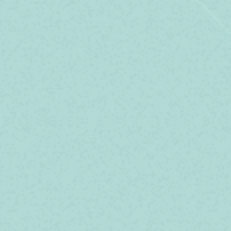
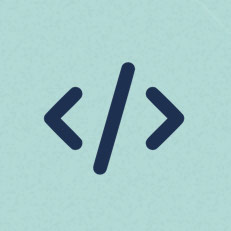
changes to home page

Changed region(s): [[0.3939, 0.2424, 0.6061, 0.7576], [0.6061, 0.3636, 0.8182, 0.6667], [0.1818, 0.3636, 0.3636, 0.6667]]

diff --git a/index.html b/index.html
@@ -36,7 +36,7 @@
 			  </li> -->
 
 			  <li class = "nav2">
-				<a href = "about.html">About</a>
+				<a href = "about.html">Who are We?</a>
 			  </li>
 			</ul>
 		  </nav>
@@ -57,19 +57,10 @@
 
 		<!-- One -->
 			<section id="one" class="wrapper style2 special">
-				<header class="major">
-					<!-- catch phrase -->
-					<h2>Sed ipsum magna lorem tempus amet<br />
-					vehicula et gravida elementum</h2>
-				</header>
 				<ul class="icons major">
-					<!-- TODO: Fix Icons -->
-					<!-- <li><span class="icon solid fa-camera-retro"><span class="label">Shoot</span></span></li> -->
 					<li><span class="icon solid fa-house-user"><span class="label">Computer</span></span></li>
 					<li><span class="icon solid fa-code"><span class="label">Code</span></span></li>
-					<!-- <li><span class="icon solid fa-cloud"><span class="label">Upload</span></span></li> -->
 					<li><span class="icon solid fa-desktop"><span class="label">Computer</span></span></li>
-
 				</ul>
 			</section>
 
@@ -87,7 +78,7 @@
 						<div class="image"><img src="images/pic02.jpg" alt="" /></div>
 						<div class="content">
 							<h3>Sign Up</h3>
-							<p>This hackathon is avalibale for any high school student that attends Meridian High School, Yorktown High School, etc.  Please form teams of X.  Fill out this form:</p>
+							<p>This hackathon is avalibale for any high school student in the DMV area.  For more specific rules and regulations, visit the "Sign Up" page</p>
 							<li class = "nav3">
 								<a href = "join.html"> Click for more info about signing up</a>
 							</li>
@@ -105,26 +96,12 @@
 					</section>
 					<section class="special">
 						<ul class="icons labeled">
-							<li><span class="icon solid fa-camera-retro"><span class="label">Ipsum lorem accumsan</span></span></li>
-							<li><span class="icon solid fa-sync"><span class="label">Sed vehicula elementum</span></span></li>
-							<li><span class="icon solid fa-cloud"><span class="label">Elit fusce consequat</span></span></li>
-							<li><span class="icon solid fa-code"><span class="label">Lorem nullam tempus</span></span></li>
-							<li><span class="icon solid fa-desktop"><span class="label">Adipiscing amet sapien</span></span></li>
+							<li><span class="icon solid fa-house-user"><span class="label"></span></span></li>
+					<li><span class="icon solid fa-code"><span class="label"></span></span></li>
+					<li><span class="icon solid fa-desktop"><span class="label"></span></span></li>
 						</ul>
 					</section>
 				</div>
-			</section>
-
-		<!-- Three -->
-			<section id="three" class="wrapper style2 special">
-				<header class="major">
-					<h2>Who are we?</h2>
-					<p>Gravida at leo elementum elit fusce accumsan dui libero, quis vehicula<br />
-					lectus ultricies eu. In convallis amet leo sapien iaculis efficitur.</p>
-				</header>
-				<ul class="actions special">
-					<li><a href="#" class="button">Learn More</a></li>
-				</ul>
 			</section>
 
 		<!-- Footer -->

diff --git a/about.html b/about.html
@@ -27,7 +27,7 @@
 			  </li> -->
 
 			  <li class = "nav2">
-				<a href = "about.html">About</a>
+				<a href = "about.html">Who are We?</a>
 			  </li>
 			</ul>
 		  </nav>

diff --git a/donate.html b/donate.html
@@ -27,7 +27,7 @@
 			  </li> -->
 
 			  <li class = "nav2">
-				<a href = "about.html">About</a>
+				<a href = "about.html">Who are We?</a>
 			  </li>
 			</ul>
 		  </nav>

diff --git a/gallery.html b/gallery.html
@@ -27,7 +27,7 @@
 			  </li> -->
 
 			  <li class = "nav2">
-				<a href = "about.html">About</a>
+				<a href = "about.html">Who are We?</a>
 			  </li>
 			</ul>
 		  </nav>

diff --git a/join.html b/join.html
@@ -27,7 +27,7 @@
 			  </li> -->
 
 			  <li class = "nav2">
-				<a href = "about.html">About</a>
+				<a href = "about.html">Who are We?</a>
 			  </li>
 			</ul>
 		  </nav>

diff --git a/assets/css/main.css b/assets/css/main.css
@@ -296,6 +296,7 @@ input, select, textarea {
 
 		hr.major {
 			margin: 3em 0;
+
 		}
 
 	.align-left {
